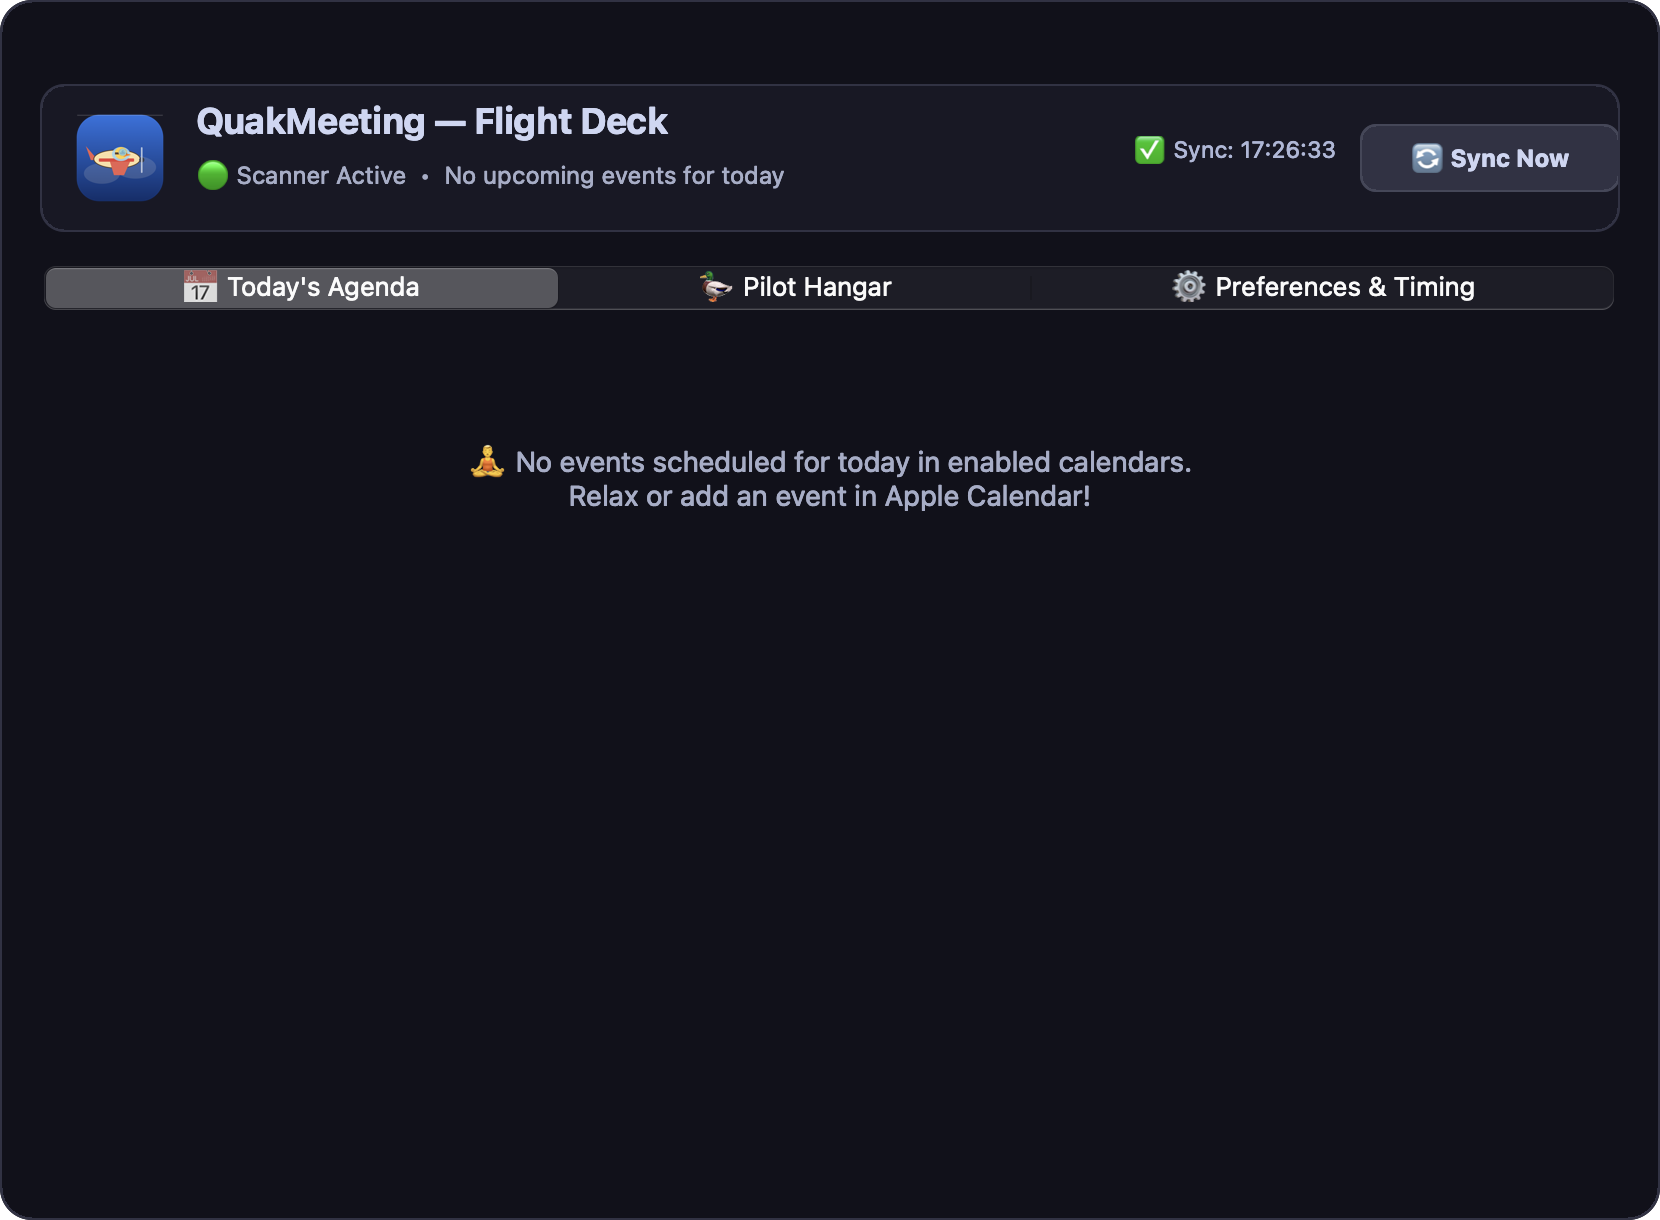
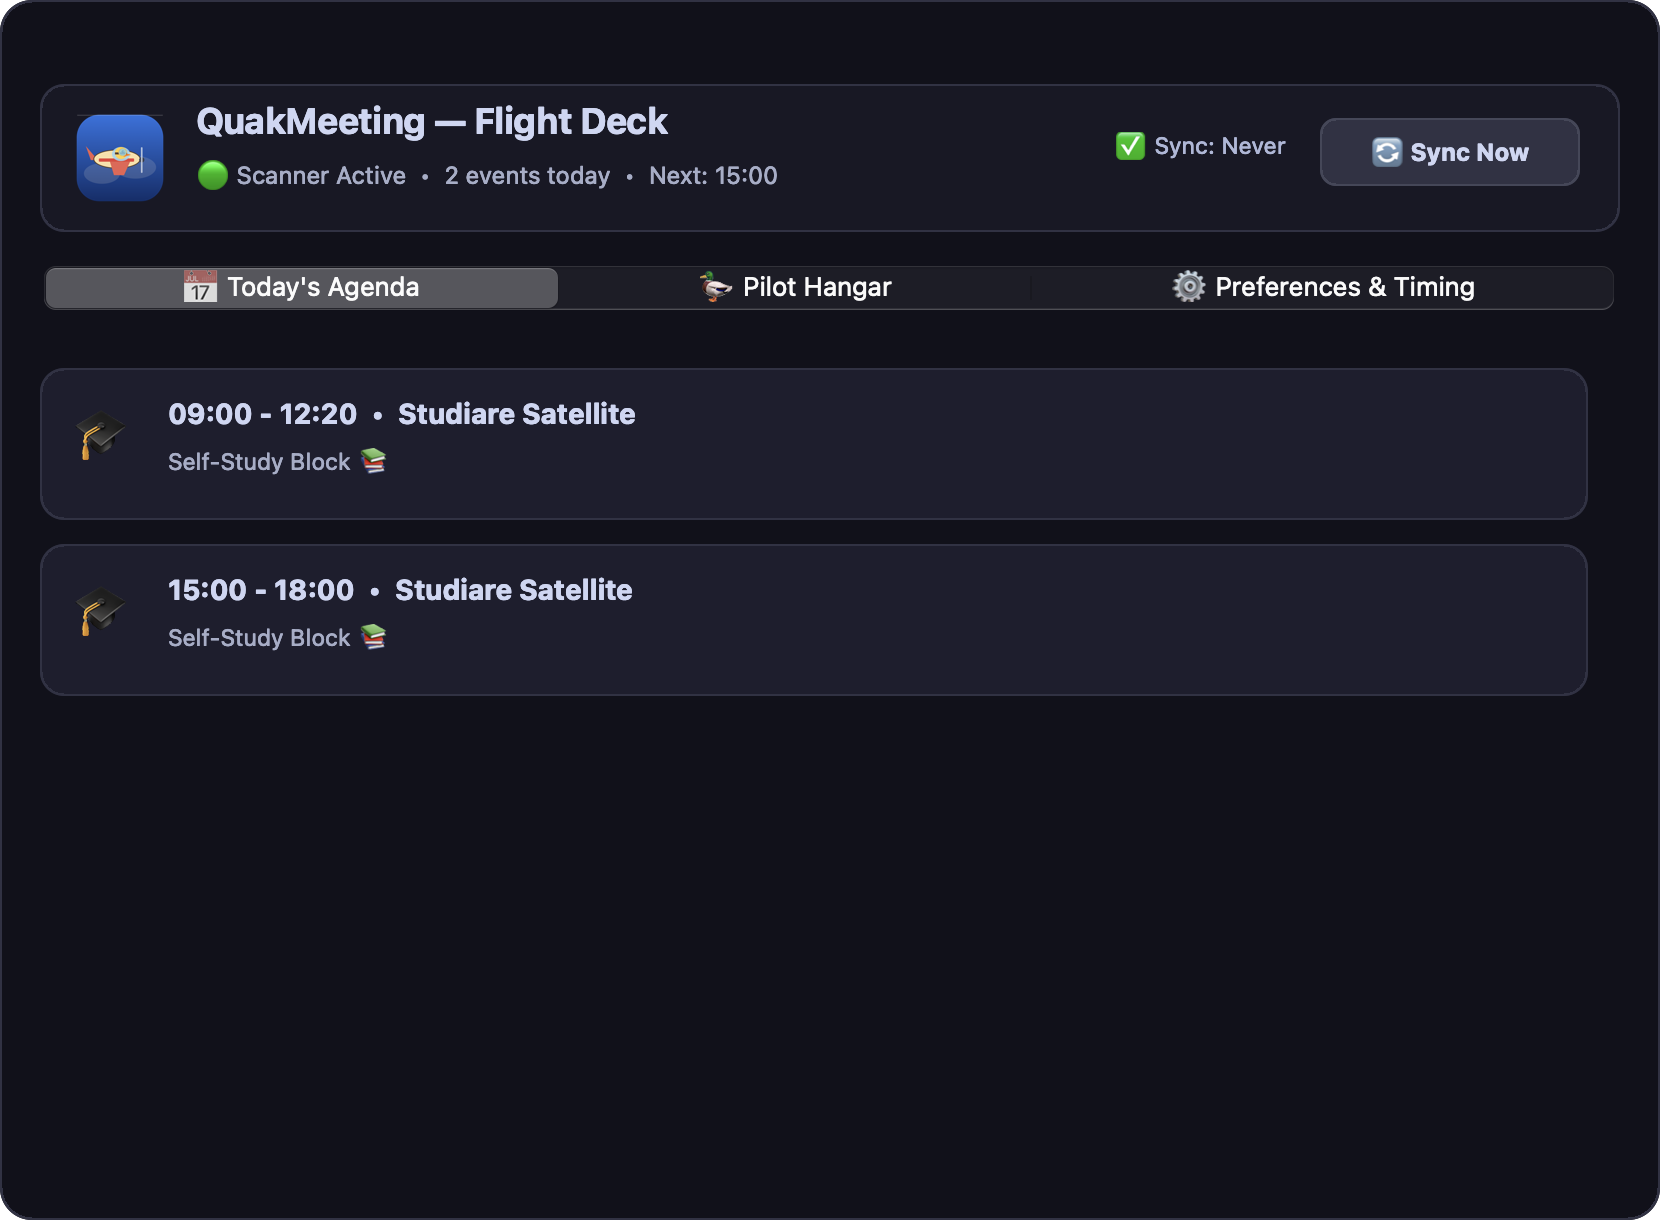
feat(ui): tighten macOS calendar card padding, inset header sync button, and update architecture screenshots

diff --git a/ui/macos/dashboard_tabs/settings_tab.py b/ui/macos/dashboard_tabs/settings_tab.py
@@ -50,13 +50,26 @@ class SettingsTabController(AppKit.NSObject):
         c2_h = 216.0 # Screen Banner & Menu Bar Live Display Dynamics
         c3_h = 164.0 # Sound Chimes
 
-        # Calculate calendar section height dynamically
+        # Calculate calendar section height dynamically based on actual wrapped rows
         cals = self.cached_calendars if self.cached_calendars else get_available_calendars()
         if not self.cached_calendars and cals:
             self.cached_calendars = cals
-        cal_count = len(cals) if cals else 1
-        cal_rows = (cal_count + 1) // 2
-        c4_h = max(118.0, 76.0 + cal_rows * 36.0) # Dynamic Calendars height
+        
+        available_w = card_w - 36.0
+        curr_row_w = 0.0
+        actual_rows = 1 if cals else 1
+        for cal in (cals or []):
+            cal_name = cal.get("name", "Calendar")
+            pill_w = max(120.0, min(240.0, len(cal_name) * 8.5 + 42.0))
+            if curr_row_w > 0.0 and curr_row_w + pill_w > available_w:
+                actual_rows += 1
+                curr_row_w = pill_w + 8.0
+            else:
+                curr_row_w += (pill_w + 8.0)
+
+        pill_h = 28.0
+        pill_gap = 8.0
+        c4_h = 74.0 + actual_rows * 36.0 # Tightly tailored Calendars height with 14px bottom padding
 
         c_up_h = 136.0 # Software Updates & Releases
         c5_h = 200.0 # System, Launch at Login & JSON Config
@@ -613,18 +626,19 @@ class SettingsTabController(AppKit.NSObject):
             card.addSubview_(lbl)
             return
 
-        y_offset = h - 90.0
-        x_offset = 18.0
         pill_h = 28.0
+        pill_gap = 8.0
+        y_offset = h - 68.0 - pill_h
+        x_offset = 18.0
 
         for idx, cal in enumerate(cals):
             cal_name = cal.get("name", "Calendar")
             title = f"📅 {cal_name}"
             pill_w = max(120.0, min(240.0, len(cal_name) * 8.5 + 42.0))
 
-            if x_offset + pill_w > w - 18.0:
+            if x_offset > 18.0 and x_offset + pill_w > w - 18.0:
                 x_offset = 18.0
-                y_offset -= (pill_h + 8.0)
+                y_offset -= (pill_h + pill_gap)
 
             btn = self._create_pill_chip(
                 card,
@@ -639,7 +653,7 @@ class SettingsTabController(AppKit.NSObject):
                 "green"
             )
             btn.setToolTip_(cal_name)
-            x_offset += (pill_w + 8.0)
+            x_offset += (pill_w + pill_gap)
 
     @objc.python_method
     def _build_system_section(self, card, w, h):

diff --git a/ui/macos/dashboard_window.py b/ui/macos/dashboard_window.py
@@ -205,7 +205,7 @@ class DashboardWindowController(AppKit.NSObject):
         self.status_lbl.setSelectable_(False)
         header_view.addSubview_(self.status_lbl)
 
-        self.sync_status_lbl = AppKit.NSTextField.alloc().initWithFrame_(AppKit.NSMakeRect(w - 330, 28, 150, 20))
+        self.sync_status_lbl = AppKit.NSTextField.alloc().initWithFrame_(AppKit.NSMakeRect(w - 355, 30, 150, 20))
         self.sync_status_lbl.setStringValue_("🔄 Pending")
         self.sync_status_lbl.setFont_(AppKit.NSFont.systemFontOfSize_(11.5))
         self.sync_status_lbl.setTextColor_(Theme.SUBTEXT1)
@@ -216,7 +216,7 @@ class DashboardWindowController(AppKit.NSObject):
         self.sync_status_lbl.setSelectable_(False)
         header_view.addSubview_(self.sync_status_lbl)
 
-        refresh_btn = AppKit.NSButton.alloc().initWithFrame_(AppKit.NSMakeRect(w - 170, 20, 130, 34))
+        refresh_btn = AppKit.NSButton.alloc().initWithFrame_(AppKit.NSMakeRect(w - 190, 23, 130, 34))
         refresh_btn.setTitle_("🔄 Sync Now")
         Theme.style_button(refresh_btn, bg_color=Theme.SURFACE0, text_color=Theme.TEXT, border_color=Theme.SURFACE1, corner_radius=8.0, font_size=12.0, bold=True)
         refresh_btn.setTarget_(self)
